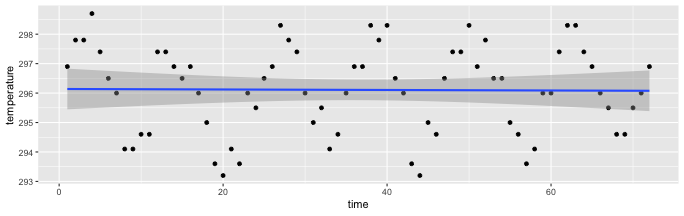
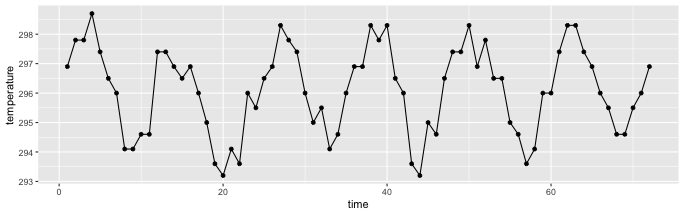
revamping

diff --git a/04_charts/02_maps.html b/04_charts/02_maps.html
@@ -4,7 +4,7 @@
     <title>Drawing Maps</title>
     <meta charset="utf-8">
     <meta name="author" content="Heike Hofmann" />
-    <meta name="date" content="2018-11-05" />
+    <meta name="date" content="2018-11-14" />
     <link href="libs/remark-css-0.0.1/default.css" rel="stylesheet" />
     <link href="libs/remark-css-0.0.1/default-fonts.css" rel="stylesheet" />
   </head>
@@ -14,7 +14,7 @@ class: center, middle, inverse, title-slide
 
 # Drawing Maps
 ### Heike Hofmann
-### 2018-11-05
+### 2018-11-14
 
 ---
 
@@ -260,82 +260,7 @@ class: inverse
 
 - Draw a choropleth map of the rate of motor vehicle thefts in 2012 across the US.
 
-- `scale_fill_gradient2` allows you to set a color scheme with two main colors. Read up on it and change the scheme in the first choropleth map.
-
----
-
-# Geographic data in layers
-
-- For data collected with GPS coordinates we can use maps as background layers
-
-- e.g. campaign expenditures
-
-- In that situation, we do not need to join the map information and the content data, but use layers with separate data sets of the form
-
-```
-map %&gt;% ggplot(aes(x = long, y = lat)) + 
-  geom_polygon(aes(group = group)) +
-  geom_point(aes(x=longitude, y = latitude), data = content) 
-```
-
----
-
-# FARS data
-
-- US Department of transportation is keeping a record of every accident that results in a fatality in the FARS Data base (fatal accident report system, http://www.nhtsa.gov/FARS)
-
-- FARS consists of 20+ tables consisting of various aspects of each accident
-Documentation at
-
-- https://www-fars.nhtsa.dot.gov/Main/index.aspx
-
-- three of the main tables are `accident`, `person`, and `vehicle`
-
----
-
-# Data 
-
-- Data of all accidents are available at:
-
-
-```r
-acc &lt;- read.csv("https://raw.githubusercontent.com/DS202-at-ISU/labs/master/data/fars2016/accident.csv", stringsAsFactors = FALSE)
-names(acc)
-```
-
-```
-##  [1] "STATE"      "ST_CASE"    "VE_TOTAL"   "VE_FORMS"   "PVH_INVL"  
-##  [6] "PEDS"       "PERNOTMVIT" "PERMVIT"    "PERSONS"    "COUNTY"    
-## [11] "CITY"       "DAY"        "MONTH"      "YEAR"       "DAY_WEEK"  
-## [16] "HOUR"       "MINUTE"     "NHS"        "RUR_URB"    "FUNC_SYS"  
-## [21] "RD_OWNER"   "ROUTE"      "TWAY_ID"    "TWAY_ID2"   "MILEPT"    
-## [26] "LATITUDE"   "LONGITUD"   "SP_JUR"     "HARM_EV"    "MAN_COLL"  
-## [31] "RELJCT1"    "RELJCT2"    "TYP_INT"    "WRK_ZONE"   "REL_ROAD"  
-## [36] "LGT_COND"   "WEATHER1"   "WEATHER2"   "WEATHER"    "SCH_BUS"   
-## [41] "RAIL"       "NOT_HOUR"   "NOT_MIN"    "ARR_HOUR"   "ARR_MIN"   
-## [46] "HOSP_HR"    "HOSP_MN"    "CF1"        "CF2"        "CF3"       
-## [51] "FATALS"     "DRUNK_DR"
-```
-
----
-class: inverse
-# Your Turn  
-
-
-- Use the accident data to plot the geographic location of all accidents in the US in 2016.
-
-- Plot accidents on a map of the US (use the map of the US as first layer)
-
-- Why would it be tricky to plot a choropleth map of the number of accidents by state?
-
----
-class: inverse
-# Your Turn  
-
-
-- The numbers for each state (`STATE`) are so-called fips codes. 
-
-- Sketch out the steps necessary to draw a choropleth map of the rate of fatal accidents by state.
+- `scale_fill_gradient2` allows you to set a color scheme with two main colors. Read up on it and change the scheme in the first choropleth map. Make the color change at the median rate of motor vehicle thefts
     </textarea>
 <script src="https://remarkjs.com/downloads/remark-latest.min.js"></script>
 <script>var slideshow = remark.create({

diff --git a/04_charts/03_layers.html b/04_charts/03_layers.html
@@ -4,7 +4,7 @@
     <title>Layers of plots</title>
     <meta charset="utf-8">
     <meta name="author" content="Heike Hofmann" />
-    <meta name="date" content="2018-11-05" />
+    <meta name="date" content="2018-11-14" />
     <link href="libs/remark-css-0.0.1/default.css" rel="stylesheet" />
     <link href="libs/remark-css-0.0.1/default-fonts.css" rel="stylesheet" />
   </head>
@@ -14,7 +14,7 @@ class: center, middle, inverse, title-slide
 
 # Layers of plots
 ### Heike Hofmann
-### 2018-11-05
+### 2018-11-14
 
 ---
 
@@ -73,20 +73,20 @@ nasa %&gt;% filter(id=="1-1") %&gt;%
 ```r
 nasa %&gt;% filter(id=="1-1") %&gt;%
   ggplot(aes(x = time, y= temperature)) + geom_point() +
-  geom_smooth(method="lm")
+  geom_line()
 ```
 
 ![](03_layers_files/figure-html/unnamed-chunk-2-1.png)&lt;!-- --&gt;
 
 ---
 
-# Adding an additional text
+# Adding additional text
 
 
 ```r
 nasa %&gt;% filter(id=="1-1") %&gt;%
   ggplot(aes(x = time, y= temperature)) + geom_point() +
-  geom_smooth(method="lm") +
+  geom_line() +
   geom_text(aes(label=id), colour="darkorange", 
             data=nasa %&gt;% filter(id=="1-1", time==50))
 ```
@@ -115,7 +115,7 @@ each layer has several parts, the two most important are:
 ```r
 nasa %&gt;% filter(id=="1-1") %&gt;%
   ggplot(aes(x = time, y= temperature)) + geom_point() +
-  geom_smooth(method="lm") +
+  geom_line() +
   geom_text(aes(label=id, colour=id),  
             data=nasa %&gt;% filter(id=="1-1", time==50))
 ```
@@ -129,7 +129,7 @@ nasa %&gt;% filter(id=="1-1") %&gt;%
 ```r
 nasa %&gt;% filter(id=="1-1") %&gt;%
   ggplot(aes(x = time, y= temperature, colour=id)) + geom_point() +
-  geom_smooth(method="lm") +
+  geom_line() +
   geom_text(aes(label=id), 
             data=nasa %&gt;% filter(id=="1-1", time==50))
 ```
@@ -141,9 +141,9 @@ nasa %&gt;% filter(id=="1-1") %&gt;%
 class: inverse
 # Your Turn (6 mins) 
 
-- Load the `box` data from the package `classdata`,
+- Load the `mojo` data from the package `classdata`,
 
-- Plot a time line for each movie: plot total gross by week that the movie is out. 
+- Plot a time line for each movie: plot total gross by week that the movie is out (restrict the x-axis to a maximum of 30 weeks). 
 
 - Label the three movies with the highest total gross.
 

diff --git a/04_charts/04_lubridate.html b/04_charts/04_lubridate.html
@@ -1,10 +1,10 @@
 <!DOCTYPE html>
 <html>
   <head>
-    <title>Layers of plots</title>
+    <title>Dates and times</title>
     <meta charset="utf-8">
     <meta name="author" content="Heike Hofmann" />
-    <meta name="date" content="2018-11-05" />
+    <meta name="date" content="2018-11-14" />
     <link href="libs/remark-css-0.0.1/default.css" rel="stylesheet" />
     <link href="libs/remark-css-0.0.1/default-fonts.css" rel="stylesheet" />
   </head>
@@ -12,9 +12,9 @@
     <textarea id="source">
 class: center, middle, inverse, title-slide
 
-# Layers of plots
+# Dates and times
 ### Heike Hofmann
-### 2018-11-05
+### 2018-11-14
 
 ---
 
@@ -52,11 +52,11 @@ class: middle, inverse, center
 Example:
 
 ```r
-mdy("03-01-2018")
+mdy("11-15-2018")
 ```
 
 ```
-## [1] "2018-03-01"
+## [1] "2018-11-15"
 ```
 
 ---
@@ -93,7 +93,7 @@ wday(now(), label = TRUE)
 ```
 
 ```
-## [1] Mon
+## [1] Wed
 ## Levels: Sun &lt; Mon &lt; Tue &lt; Wed &lt; Thu &lt; Fri &lt; Sat
 ```
 
@@ -114,7 +114,7 @@ span
 ```
 
 ```
-## [1] "2017-11-05 17:20:52 CST"
+## [1] "2017-11-14 19:23:26 CST"
 ```
 
 ```r
@@ -122,7 +122,7 @@ end_date - days(10)
 ```
 
 ```
-## [1] "2018-10-26 17:20:52 CDT"
+## [1] "2018-11-04 19:23:26 CST"
 ```
 
 ---
@@ -179,11 +179,9 @@ class: inverse
 
 - make sure the variable `Release Date` is a date format,
 
-- plot a histogram of the variable.
+- plot a histogram of the variable. Set the bin width appropriately.
 
-- merge (`join`) budget and box office data (by movie name) 
-
-- is the time between the release of a movie and the date is equal to the number of weeks in theaters?
+- is there a monthly trend apparent for movies that were released since 2000? draw barcharts of month, facet by year. What about day of the week?
     </textarea>
 <script src="https://remarkjs.com/downloads/remark-latest.min.js"></script>
 <script>var slideshow = remark.create({
